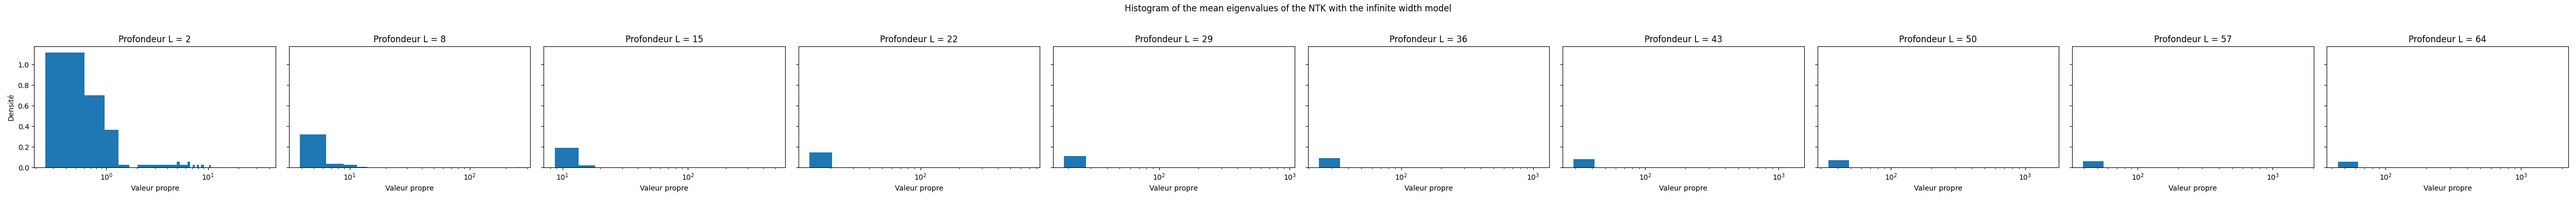
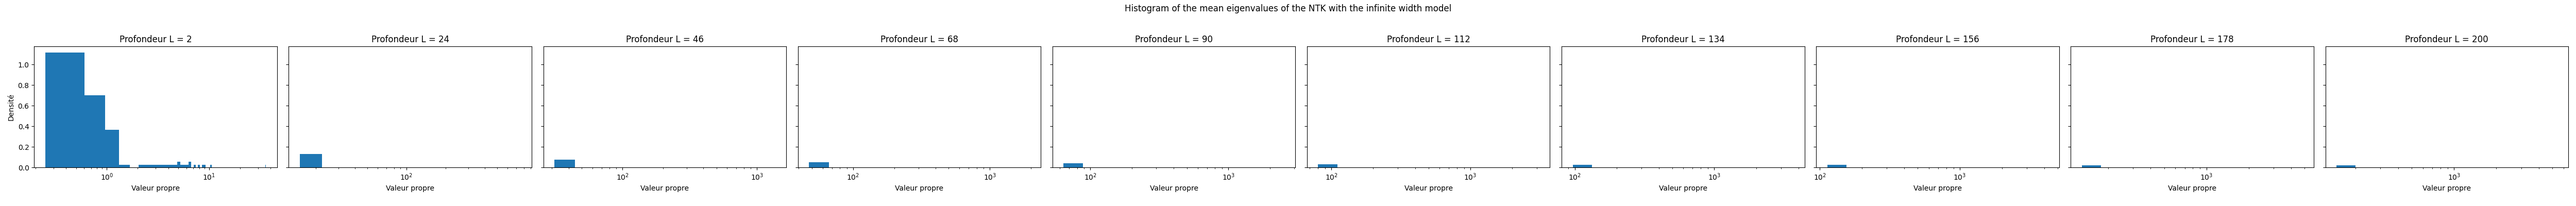
infinite K2 with linspace(2;200,10)

diff --git a/experiments/ntk_vs_depth_infinite.py b/experiments/ntk_vs_depth_infinite.py
@@ -1,12 +1,12 @@
 import numpy as np
 import matplotlib.pyplot as plt
 import os
-from infinitewidth import InfiniteWidth
+from infinitewidth import InfiniteWidth # type: ignore
 
 # %%
 N = 100  # number of data points
 D_IN = 20  # input dim
-L_VALUES = np.linspace(2, 64, 10).astype(int)
+L_VALUES = np.linspace(2, 200, 10).astype(int)
 RANDOM_SEED = 42
 PATH_TO_PLOTS = "/home/janis/STG3A/deeperorwider/experiments/plots"
 
@@ -86,16 +86,11 @@ plt.savefig(PATH_TO_PLOTS + "/kth_eigenvalue_vs_L_infinite.png")
 print("Graphique de la k-ième valeur propre enregistré dans " + PATH_TO_PLOTS + "/kth_eigenvalue_vs_L_infinite.png")
 
 
-
+# %%
 plt.figure(figsize=(10, 6))
 plt.title(f"Eigenvalues of the NTK with the infinite width model as a function of the depth of the network")
-
-
-
 # plot the largest eigenvalue
 plt.plot(L_VALUES, eigenvalues_per_L[:, -1], 'o-', label=f'λ_max')
-
-
 plt.xlabel("Nombre de couches (L)")
 plt.ylabel("Valeur propre moyenne")
 plt.xticks(L_VALUES)
